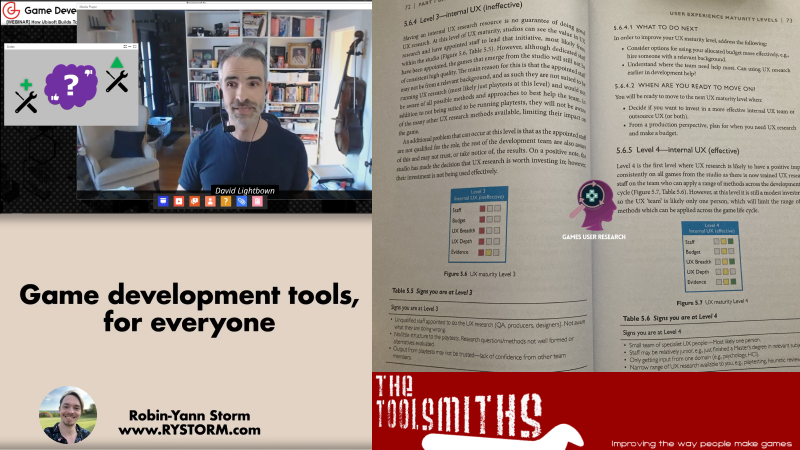
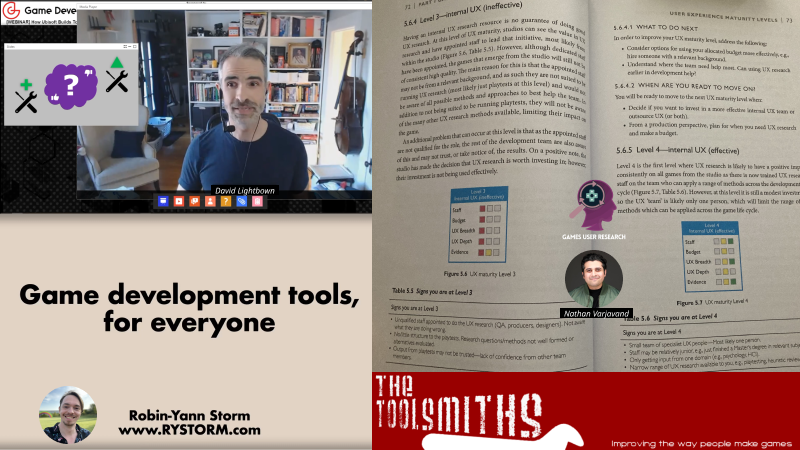
Near completed work on Star Engine, linking images. Still needs some and needs alt text review

Changed region(s): [[0.6875, 0.56, 0.8125, 0.7156]]

diff --git a/entries/work/star-engine.html b/entries/work/star-engine.html
@@ -73,106 +73,135 @@
 
                 <!-- image -->
                 <img src="/assets/images/entries/work/star-engine/StarEngine-inline.png" alt="A Star Citizen character in a futuristic space suit and helmet, holding a glowing golden orb" loading="lazy">
-                <p>In 2021, I transitioned from an embedded Senior QA to the sole UX Designer within the Core Technology Group (CTG) at Cloud Imperium Games. I was responsible for a few different initiatives within the CTG, however I was primarily focused on the Star Engine Editor - which is the software interface and tools that allow over 800+ developers globally to develop Star Citizen, a massive Singleplayer and MMO space game.
 
-                </p>Over the course of 3 years, I stood up user research foundations, documented technical issues and workflows, while also updating existing tools and crafting new ones to solve developer experiences. I used my voice to echo developer commentary when they encountered bugs or had frictions with their tools and I would then synthesize those issues into action points as best I could with my team to fit their specific needs while doing our best to afford general developers.</p>
+                <p>In 2021, I transitioned from an embedded Senior QA to the sole UX Designer within the Core Technology Group (CTG) at Cloud Imperium Games in Los Angeles. I was responsible for a few different initiatives, however my primary focus was within the Star Engine Editor - which is the software interface that contains the tools which allow over 800+ developers globally to develop Star Citizen, a massive Singleplayer and MMO space game.</p>
 
-                </p>In 2023, my time - as well as a bunch more awesome people’s time - was cut short due the Los Angeles office shut down. I wasn't able to accomplish all of the things I wanted, but I am so happy to have established a UX practice where there was none and contributed some great tools with great people.</p>
+                </p>Over the course of 3 years, I stood up the groups user research foundations, documented technical issues within workflows, updating existing tools, and lastly crafting new tools. I used my voice to echo developer commentary when they encountered bugs or had frictions with their tools and I would then synthesize those issues into action points as best I could with my team to fit their specific needs while doing our best to afford general developers.</p>
 
-                </p>Looking back, I will note that I was one UX person within a Tech Group that needed at least two or more Senior UX devs on the team alongside me. That being said, I’m again grateful to have been given the opportunity and I give great thanks to my producers for being my rocks and my trusty Games User Research Book, my external mentor, and the folks in the Toolsmiths Discord channel.</p>
-
-                </p>On this page, I will not go into great detail about all of the individual projects, but rather condense my 3 years on the team, my struggles, team wins, and some specific project musings.</p>
+                </p>On this page, I will detail a few selected projects, span my 3 years on the team. Our struggles, our wins, and some specific musings.</p>
 
                 <!-- Dot divider -->
                 <div class="divider--dots" role="separator" aria-hidden="true"><span></span></div>
 
                 <h2 id="what-is-star-engine">What is the Star Engine</h2>
+                
                 <!-- image -->
+                <img src="/assets/images/entries/work/star-engine/section-1/what-is-star-engine.png" alt="two screenshots, left a space station in orbit - right, a picture of a space fighter pilot" loading="lazy">
+
+                <p>The Star Engine is the game engine utilized by Cloud Imperium Games to create their two main titles: “Squadron 42”, their Singleplayer title - and “Star Citizen” - their massive multiplayer title.
+
+                <p>If you're interested in more detail about the engine, you can read more on the <a href="https://starcitizen.tools/Star_Engine" target="_blank" rel="noopener noreferrer">Star Engine wiki page</a> or go to any of the <a href="https://www.youtube.com/@RobertsSpaceInd" target="_blank" rel="noopener noreferrer">tech talks available on YouTube.</a> </p>
+
+                <h2 id="editor">Star Engine Editor</h2>
+
+                </p>The Star Engine Editor was my primary focus - is a software interface wrapping the game engine allowing developers to manipulate the game's features, create levels, its lighting, cinematics, animations and more for the two titles.</p>
+
+                <!-- image -->
+                <img src="/assets/images/entries/work/star-engine/section-3/editor-interface.png" alt="screenshot of the Star Engine Editor's Interface" loading="lazy">
+
+                <p>While the Star Engine is one of the most impressive game engines on the planet, the interface for the Editor is notably archaic in comparison. Untidy modification over the years has left it behind especially when compared to modern game engine interfaces like Unreal, Unity and Godot.</p>
+
+                </p>While I had spent some of my spare time conceptualizing an updated aesthetic to the interface - we sadly did not get to implement them. My focus throughout was primarily in specific tools. The overhaul would have taken considerable time away from core tools and fixes.</p>
+                
+                </p>Below are some of my concepts</p>
+                <!-- image gallery component and image zoom components needed, take screenshots of some of the work-->
 
 
-                <p>The Star Engine is a game engine utilized by Cloud Imperium Games to create their two main games: “Squadron 42”, the Singleplayer title - and “Star Citizen: Persistent Universe” - their multiplayer title.
-
-                </p>If you’re interested in more ditty gritty detail, You can read more on this wiki or go to any of the Citizen Con Tech talks available on youtube.</p>
-
-                </p>I do also highly recommend you watch a video or play Star Citizen’s Persistent Universe for yourself to understand the scope of the engines capabilities and the near-seamless traversal from surface to planet via spaceship. It’s pretty cool</p>
-
-                </p>The Editor - which was my aforementioned primary focus - is a software interface wrapping the game engine allowing developers to manipulate the game's features, create levels, its lighting, cinematics, animations, among many of the other pipelines used to create games.
-                .</p>
+            
 
                 <!-- Dot divider -->
                 <div class="divider--dots" role="separator" aria-hidden="true"><span></span></div>
 
-                <h2 id="foundations">Foundations and UX Maturity</h2>
+                <h2 id="maturity">UX Maturity</h2>
+                
+                <p>I transitioned to this role at the beginning of the Covid-19 global pandemic. I was fortunate to be able to work from home and to be alive.</p>
+
+                </p>With my team largly based in Germany - my team integrated me into their end of day meetings and now that I didn't need to commute, I could stay up later to meet developers across the pond in their early free hours. Exhausting as that was sometimes, it was worth it just to meet new people and learn about their issues.</p>
+                
+                </p>As I had no UX Lead, I was going to need external help. I applied for a mentorship program on the Games User Research site, got a mentor, picked a copy of the Games User Research, and made use of a friendly cross-tech tools-oriented developer community - 'The Toolsmiths'.</p>
+
                 <!-- image -->
+                <img src="/assets/images/entries/work/star-engine/section-2/foundations-helpful-mentors.png" alt="a collage of various resources and developers focused on tools and game user experience, David Lightbown, Robin-Yann Storm, Games User Research Book, and mentor Nathan Varjavand" loading="lazy">
 
-                <p>Much of my early days were spent modifying my US Pacific Time sleep schedule to adapt to communicating with my new teammates across the pond in GMT.
+                </p>Chapter 5 of the Games User Research Book, titled, "User experience maturity levels - evaluating and improving game user research practices" Graham Mcallister details maturity levels of organizations and provides criteria to help define where you are and where you can go based on your resources.</p>
 
-                </p>The locations under Cloud Imperium Games (CIG) at the time were LA, Austin and Montreal in North America, with a team in Frankfurt, Germany, and the home base for the largest developer population in Manchester, UK.</p>
+                </p>With my hiring, the Core Tech Group had gone from Level 1: Do not do it - to Level 2: 'Have a go'.</p>
+                
+                </p>My goal based on resources, was to get us to Level 4: Internal UX (effective) and I believe during my time I managed to do that.</p>
 
-                </p>I was interviewing developers from all studios via Microsoft Teams and would be tasked weekly with meeting team leads and their associated members within the Core Technology Group.</p>
+                <!-- image -->
+                <img src="/assets/images/entries/work/star-engine/section-2/foundations-interviews.png" alt="Photos from Interviews, various developer one-on-one and larger meetings on microsoft teams" loading="lazy">
+                
+                </p>At the beginning I was doing my best to translate much of what I used for QA playtests, while leveraging my available tech stack.</p>
 
-                </p>Those meetings were not only used to meet and greet with developers I had never interacted with before - but also for about 30 minutes to a gracious 1 hour if a developer was chatty enough - I would gather information about the tools they used, their current deliverables, and the issues they faced as a team as it pertained to the Editor.</p>
+                </p>Tasked weekly with meeting team leads and their associated members within the Core Technology Group, I was interviewing developers from all studios via Microsoft Teams, and making notes in Confluence and Miro.</p>
 
-                </p>At the beginning I was doing my best to translate much of what I used for playtesting games, while working towards figuring out how to get from Level 2 UX Maturity - “Have a go” - to Level 4 Maturity - “Useful UX” according to the Games User Research Book. However, this wasn’t for games, this was for the tools that made games.</p>
+                </p>For about 30 minutes to sometimes a gracious 1 hour if a developer was chatty enough - I would gather information about the tools they used, their current deliverables, and the issues they faced as a team as it pertained to the Editor.</p>
 
-                </p>The best I could do at first, was to be present, listen, learn and document my observations and present them to my team. That’s what I did, and overtime it grew in a more formal process.
-                </p>
+                </p>That first year was filled with many ups and downs. I did my best to be present, listen, learn and document my observations and present them to my team. That’s what I did, and overtime I built trust amongst the developers as the team tackled their issues, and I grew a more formal process.</p>
 
-                </p>My User Research Setup:</p>
+                <!-- image -->
+                <img src="/assets/images/entries/work/star-engine/section-2/foundations-workflow.png" alt="diagram of the user experience workflow I implemented" loading="lazy">   
+
+                </p>Our Internal Setup:</p>
 
                 <ul>
-                    <li>Meeting Invite and Acceptance via Outlook and a DM via Teams</li>
+                    <li>Production provides UX with a Task with associated Tool and Power Users</li>
+                    <li>UX sends a meeting invite to the point of contant developer</li>
                     <li>Meet and Greet to establish major talking points</li>
-                    <li>Screen Share and Record via OBS</li>
-                    <li>Transcribe using Otter</li>
-                    <li>Develop Surveys if I needed Quantitative Data</li>
+                    <li>Screen Share and Record workflow via OBS</li>
+                    <li>Transcribe audio using Otter</li>
                     <li>Synthesize my notes into reports</li>
                     <li>Chat with my team about the issues</li>
                     <li>Make action points via Jira Tasks</li>
+                    <li>Send Surveys if there is a need Quantitative Data</li>
                 </ul>
 
-                </p>These meetings would lay the foundation of the Editor team's notoriety among the other studios, eventually garnering enough of an interest among developers to create a feedback loop that the Editor and the Core Tech team never had for our global developers.</p>
-
-                </p>Overtime, the Editor team implemented the following Feedback Loop:</p>
+                </p>These meetings and projects provide the Editor team notoriety among the other internal studios, eventually garnering enough of an interest among developers where we saw tons of developers wanting to participate.</p>
                 
-                <ul>
-                    <li>Interview and Survey Developers regularly, but not too much! People are busy!</li>
-                    <li>I audited the Help Menu, which was barren and had outdated reference documentation</li>
-                    <li>I created an Editor Confluence page to replace the outdated docs and served as a HUB</li>
-                    <li>We created a Teams chat channel for direct Editor Support</li>
-                    <li>We created a Patch Notes Archive and Published Patch Notes regularly</li>
-                    <li>We also created a Patch Notes modal that appeared on startup after updating to latest</li>
-                    <li>We put a link to Patch Notes within the Help Menu</li>
-                    <li>We added ‘information’ buttons to all major tools, which linked to documentation!</li>
-                </ul>
-
-                </p>Results:</p>
-                
-                <ul>
-                    <li>Developer engagement increased!</li>
-                    <li>Reports of issues increased - which rarely ever happened before because developers never reported issues!</li>
-                    <li>Editor stability increased!</li>
-                    <li>We reduced New Developer On-Boarding Times by a small amount.</li>
-                    <li>We increased tool fluency even among veteran developers by surfacing old and new useful functions.</li>
-                </ul>
-
-
-
                 <!-- Dot divider -->
                 <div class="divider--dots" role="separator" aria-hidden="true"><span></span></div>
 
-                <h2 id="an-old-toolbox">An old toolbox</h2>
+                <h2 id="communication">Fixing Communication</h2>
+                
+                </p>Most any time a new hire came through the office, many would struggle adapting. This editor is quite alien to many of the younger and even older generations of developers who come from years with Unity, Unreal, or even Godot which offer tons of up to date docs and support.</p> 
+
                 <!-- image -->
+                <img src="/assets/images/entries/work/star-engine/section-3/editor-interface.png" alt="Text" loading="lazy">
+                
+                </p>Internal Star Engine Editor documentation was sparse and the documentation we had, was team specific documentation. Some archives were better than others, but most were decentralized in their specific team's corner of confluence.</p>
 
-                <p>The Star Engine is - in my personal opinion - technically one of the most impressive game engines on the planet. The Editor Interface however - was notably archaic and crudely mapped due to untidy modification over the years; especially when compared to modern game engine interfaces like Unreal, Unity and Godot. I was hired to not only aim to improve the interface. While I never got to implement a new aesthetic to the Editor, we made progress on fundamentals by tackling many of the subtle nuances of the developer user experience within the interface.</p>
+                <!-- image -->
+                <img src="/assets/images/entries/work/star-engine/section-3/toolbox-help-documentation.png" alt="Text" loading="lazy">
+                
+                </p>Another much to common feeling among developers I gathered in interviews, was the lack of communication with the Editor Team. They felt cutoff and didn't know who to contact. The Editor Team was a small aperatus within the Core Technology Group and no one was really the public point of contact.</p> 
+                
+                </p>Worse than that - if they encountered bugs, crashes, or UX issues - they rarely reported, or recorded it. And that was made worse because there wasn't any obvious method to communicate these issues to the Editor Team's Engineers and QA.</p> 
 
-                </p>Most any time a new hire came through the office - this engine was quite foreign to them compared to the aforementioned industry standard engines - and would need help acclimating. Acclimation to any new tool takes time for new users but also takes time away from veteran users who are pulled away from their work to explain the nuances of a workflow or specific tool to those new hires.</p>
+                </p>I saw the opportunity to create a much needed communication loop for developers:</p>
 
-                </p>From duplicate toolbars, differing icon sizes, redundant or deprecated settings, and the ever present hindrance of text not scaling with different monitor resolutions - these were the long standing “deaths by a thousand cuts” issues which loomed over veteran and new developer workflows on the daily.</p>
+                <!-- image -->
+                <img src="/assets/images/entries/work/star-engine/section-3/toolbox-help-documentation-improvement.png" alt="Text" loading="lazy">
 
-                </p>Luckily they hired a person who loves a good audit and documenting everything to help his team! It was foundational to many quality of life improvements we gained. So that is what I did.</p>
+                <ul>
+                    <li>I created a centralized Editor HUB for general use, documentation, updates, troubleshooting guides, etc</li>
+                    <li>We created a Teams Channel for direct Editor Support</li>
+                    <li>We created a Patch Notes Archive and Published Patch Notes regularly</li>
+                    <li>Integrated a Patch Notes modal that appears on startup after updating to latest</li>
+                    <li>We put a link to all of these within the Help Menu of the Editor</li>
+                    <li>And later, a UX Requirement for every tool would add a ‘information’ buttons visible in a tool modal linked to documentation!</li>
+                </ul>
 
-                </p>All of the notes compiled from my meetings with developers over the years, my individual exploration, and my engineers legacy knowledge helped us to audit the disconnected parts of the editor and lead to overhauls of major and minor systems. Below are some examples of important growth moments for myself and the Editor team.</p>
+                <h3 id="outcome-comms">Outcome</h3>
+                
+                <ul>
+                    <li>Developer engagement increased as I became a bit of a spokesperson.</li>
+                    <li>Reports of issues increased in the Teams Channel, QA reproduced the issues, engineering fixed more issues, and stability increased.</li>
+                    <li>New Developer on-boarding was improved, and we even increased tool fluency among veteran developers by surfacing old but useful functionalities.</li>
+                    <li>Developers felt like they were finally heard.</li>
+                </ul>
+
+                </p>The importance of assuring a solid communication loop was the single most important aspect of my time there.</p>
 
 
                 <!-- Dot divider -->
@@ -180,13 +209,18 @@
 
                 <h2 id="RASTAR">Base Builder Ups and Downs</h2>
                 <!-- image -->
+                <img src="/assets/images/entries/work/star-engine/section-4/rastar-render.png" alt="Text" loading="lazy">
 
-
-                <p>Near the beginning of my joining of the Core Tech Group, I would be asked to join a prototyping team for a Base Building tool, referred to as RASTAR. It was meant to speed up the Level Design and Environments workflow for constructing spaces on planets throughout the Persistent Universe. I was responsible for both concept design and UI implementation using their internal tool called, Dataforge. This tool allows developers to create many of our in-game classes and game objects as well as our interfaces.</p>
+                <p>Near the beginning of my joining of the Core Tech Group, I would be asked to join a prototyping team for a Base Building tool, referred to as RASTAR. It was meant to speed up the Level Design and Environments workflow for constructing spaces on planets throughout the Persistent Universe. I was responsible for both concept design and UI implementation using their internal tool called, Dataforge. This tool allows developers to create the many of our in-game classes and game objects as well as our interfaces.</p>
 
                 </p>As much fun as I was having working on a base building tool - I became overwhelmed and it was weighing on me that I was assisting with implementation on this project as well as maintaining existing Editor Team duties. Of which were arguably more important and the primary reason I was hired in the first place. My implementation was also poor. I was creating new components by scratch and not utilizing component libraries established by the UI team.</p>
 
-                </p>And so I left the project after discussing my issues with my team lead and serves as a lesson for myself to know when to say ‘no’ to a project even if it’s interesting.</p>
+                <!-- image -->
+                <img src="/assets/images/entries/work/star-engine/section-4/rastar-editor-tool.png" alt="Text" loading="lazy">
+
+                </p>I left the project after discussing my issues with my team lead and serves as a lesson for myself to know when to say ‘no’ to a project even if it’s interesting.</p>
+
+                <h3 id="outcome-rastar">Outcome</h3>
 
                 </p>There was however some valuable data gained for the UI and Editor team:</p>
 
@@ -198,28 +232,28 @@
                 <div class="divider--dots" role="separator" aria-hidden="true"><span></span></div>
 
                 <h2 id="Editor-Settings">Editor Settings Refactor</h2>
-                <!-- image -->
+                
 
+                <p>As I was auditing the editor - I would note different workflows as well as developer struggles with display settings with the Viewport. Below I note major issues and what we did to tackle these issues.</p>
 
-                <p>As I was meeting with teams and auditing the editor - I would note different workflows as well as developer struggles with display settings with the Viewport. Below I note major issues and what we did to tackle these issues.</p>
+                <h3 id="decentralized-settings">Decentralized Settings</h3>
 
-                </p>Major Issue 1: Settings</p>
-
-                </p>The Editor Settings were all over the place and I mean that very literally. From duplicate shortcuts with different labels to buttons that had no functionality at all.</p>
+                </p>The Editor Settings were all over the place and I mean that very literally. From duplicate shortcuts with different labels to buttons that had no functionality at all in the literal settings menu. No tooltips, descriptions. It was a mess.</p>
 
                 </p>Most developers also relied on json files full of debug commands they found over the years and would pass onto one another which would be read at editor launch to display specific debug visualizations for their workflow would appear in the Viewport.</p>
 
                 </p>These commands would also sometimes cause developers to skip crucial Editor Prompts which would have aided them and submit changes that broke builds or tanked performance.</p>
 
-                </p>Json files filled with commands being passed down to teams via lead legacy knowledge that was not archived in any documentation in confluence let alone in the Editor.</p>
-
-                </p>Major Issue 2: Performance</p>
+                </p>Json files filled with commands being passed down to teams via lead legacy knowledge that was not archived in any documentation in confluence let alone in the Editor. So during interviews, I would collect them and archive commands, and if possible, I would detail what each did, and if there were bugs, or perhaps something we could do to surface these functionalities for general use.</p>
+                
+                <h3 id="performance">Performance</h3>
 
                 </p>Our Single-player and Multiplayer Levels, and Tech Zoo’s are populated with hundreds, sometimes thousands of objects. Each object in the engine receives visual “helpers” which could be Toggled (Show/Hide).</p>
 
                 </p>The viewport will get cluttered easily and developers lose focus of what matters and as a result of drawing a bunch of endless helpers they could not control the visualization of and performance would drop.</p>
 
-                </p>What did we do?</p>
+                <!-- image -->
+                <img src="/assets/images/entries/work/star-engine/section-5/viewport-render-issues.png" alt="Text" loading="lazy">
 
                 </p>Using my audit of the entire Editor Settings: from scaling, text, and viewport visualizer options - we verified every menu and sub-menu option and labeled them as functional, redundant, and compiled a list for refactoring.</p>
 
@@ -227,41 +261,50 @@
 
                 </p>And finally we created a new searchable window which houses all Viewport Visualization options at the top of the viewport which runs parallel with our new Editor Settings Menu.</p>
 
-                </p>Results</p>
+                <h3 id="outcome-settings">Outcome</h3>
+
+                <!-- image -->
+                <img src="/assets/images/entries/work/star-engine/section-5/viewport-visual-manager.png" alt="Text" loading="lazy">
 
                 </p>This was a win for all developers, as they could easily find, filter, and manage what is currently displayed in their Viewport.</p>
 
-                </p>We increased FPS by refactoring the ways we rendered specific visualization helpers, and created methods to control render distance for the Viewport in General, as well as Helpers.</p>
 
-                </p>And because sharing is caring - we thought it useful for developers to be able to create and share “Presets” configuration json files with one another. </p>
-
-                </p>A user can create multiple visual environments, rather than a singular one they have to manage each time they need to change a workflow. </p>
+                <ul>
+                    <li>We improved general performance by refactoring the ways we rendered specific visualization helpers</li>
+                    <li>We improved the surfacing of methods to control render distance for general and specific helpers</li>
+                    <li>And because sharing is caring - we thought it useful for developers to be able to create and share “Presets” configuration json files with one another.</li>
+                    <li>A user can create multiple visual environments, rather than a singular one they have to manage each time they need to change a workflow. </li>
+                </ul>
 
                 </p>For Example: We have two developers from Cinematics. One needs to set up framing for different shots - and another needs to ensure framerates are consistent throughout. </p>
 
                 </p>Each developer can set cinematic presets, name them, share them, and the user can toggle between the two.</p>
 
+                <!-- Dot divider -->
+                <div class="divider--dots" role="separator" aria-hidden="true"><span></span></div>
+
                 <h2 id="Object-References">Object References</h2>
-                <!-- image -->
-
-
+                
                 <p>At this point in time, the team's notoriety had grown and we received a message from the Single-player Level Design Team from our team's Technical Director. They actually had prepared a pitch for a tool, and had gathered a large chunk of the information and provided example screenshots and Levels for us to test with.</p>
 
-                </p>One of the most significant boondoggles a game developer can get into is data corruption. This can happen in a few ways from Bit rot, truncation, scheme mismatches, buffer overflows, maybe some race conditions or Asset errors. How each engine or an engine editor handles those situations is a hit or miss when it comes to providing enough detail to the user to understand what caused the issue to appear.</p>
+                </p>One of the most significant boondoggles a game developer can get into is data corruption. This can happen in a few ways from Bit rot, truncation, scheme mismatches, buffer overflows, maybe some race conditions or asset errors. How each engine or an engine editor handles those situations is a hit or miss when it comes to providing enough detail to the user to understand what caused the issue to appear.</p>
 
-                </p>For this particular project story we were dealing with Broken / Missing References which were causing levels in the Singleplayer to crash immediately with Null Reference Exceptions.</p>
+                </p>For this particular project story we were dealing with Broken / Missing References which were causing levels in the Singleplayer to crash immediately with Null Reference Exceptions, resulting in developers wasting time investigating and fixing a previous fix.</p>
 
-                </p>Are you sure this is important? Yes or No</p>
+                <h3 id="delete-this">Delete this? Y/N</h3>
 
-                </p>In the Editor, for like 10 odd years - when users pressed the Delete key or right clicked to Delete a selection of game objects - the Delete Modal - which commonly prompts a user with “Are you sure you want to Delete (Big Red Square)? - Yes / No” - did not inform the user that the Big Red Square contains a Reference to another game object.</p>
+                </p>In the Editor, for like 10 odd years - when users pressed the Delete key or right clicked to Delete a selection of game objects - the Delete Modal - which commonly prompts a user with “Are you sure you want to Delete (Big Red Square)? - Yes / No” - did not inform the user that the Big Red Square contains a reference to another game object.</p>
+
+                <!-- image -->
+                <img src="/assets/images/entries/work/star-engine/section-6/object-references-flow-comparison.png" alt="Diagram displaying two user flows comparing states and information failures and fix proposals" loading="lazy">
 
                 </p>It was one of those situations where we all sat back in our chairs and felt a mix of anxiety and comedic surprise.</p>
                 
-                </p>“How have we managed for this long?” and “Why are we laughing about this?” which ended with us all agreeing we need this prioritized.</p>
+                </p>“How have we managed for this long?” and “Why are we laughing about this?”</p>
                 
-                </p>As we sat in disbelief that no developer or team prior took action on this prior - we got to work straight away on the design and implementing based on the specifications presented by the Single Player Team.</p>
+                </p>which ended with us all agreeing this was high priority. We got to work straight away on the design and implementing based on the specifications presented by the Single Player Team.</p>
 
-                </p>What did we do?</p>
+                <h3 id="outcome-obj-ref">Outcome</h3>
 
                 <ul>
                     <li>Developers we worked with had a very detailed breakdown of the problem and what they wanted in an interface as well as some core features.</li>
@@ -269,6 +312,9 @@
                     <li>We modified the existing modal and finally created a new window which would present itself if there any objects had references, and presented options for resolution.</li>
                     <li>Users can select and modify the Objects in the pending list, make their change, and go on to their next task.</li>
                 </ul>
+
+                <!-- image -->
+                <img src="/assets/images/entries/work/star-engine/section-6/object-references-window-diagram.png" alt="Diagram displaying a modal transitioning from different states after Deleting an Object containing references" loading="lazy">
 
                 </p>As a result of this new window being implemented, our group of developers we worked with called it, “a godsend” and level decay decreased drastically once our tool branched into other streams.</p>
 
@@ -287,9 +333,12 @@
 
                 <h2 id="Conclusion">Conclusion</h2>
                 <!-- image -->
+                <img src="/assets/images/entries/work/star-engine/conclusion.png" alt="A picture of me, in the Los Angeles Office Entrance, doing a Thumbs up" loading="lazy">
 
 
-                </p>For Three years, I did my best at the time to help our global teams out. While I am happy I was able to develop with a great team, and on a range of projects, I'd be remiss if I wasn't humbled with the fact that some projects were a massive success while others were less successful. I made mistakes and I learned a great deal about how to approach developers, scope projects, and manage workloads. Being the sole UX developer was difficult, but it was less difficult due to crucial internal and external support. I do wish I had a UX and UI lead or partner to teamup with, but I am grateful to my senior tech leadership for giving me a fantastic opportunity, teammates, and producers who were my support pillars throughout my time.</p>
+                </p>For Three years, I worked with a great team who supported and trusted me with an entire editor and global team pipeline. Unsure how many first time UX roles get to do that, but what a ride it was.</p>
+                
+                </p>Being the sole UX developer was difficult, but it was made less difficult due to crucial internal and external support. I am grateful to my senior tech leadership for giving me a fantastic opportunity, teammates, and producers who were my support pillars throughout my time.</p>
 
 
             </div>
